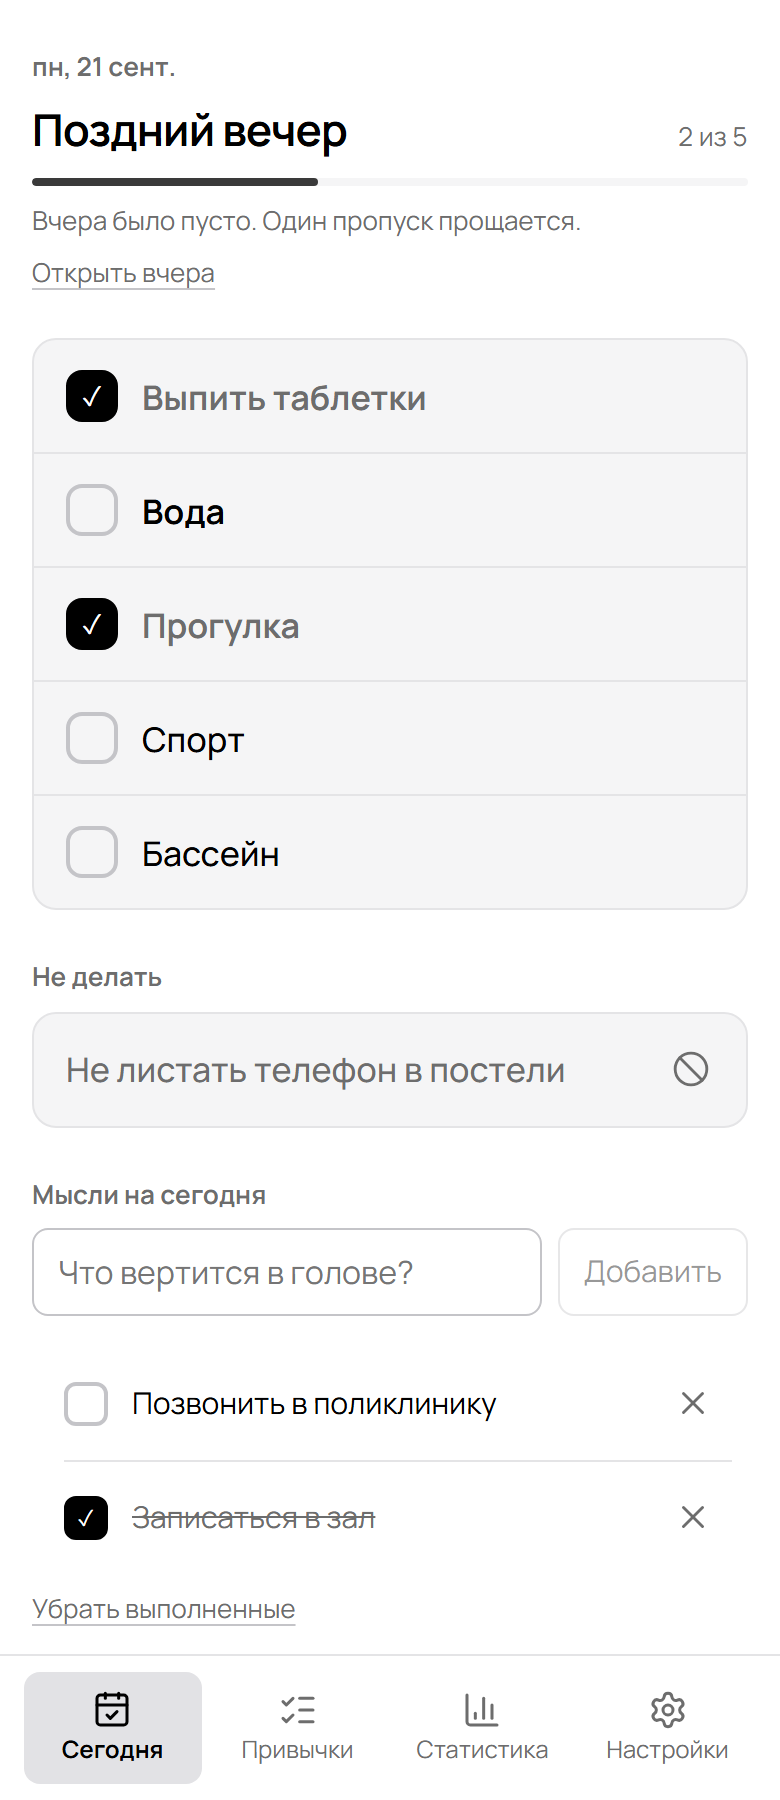
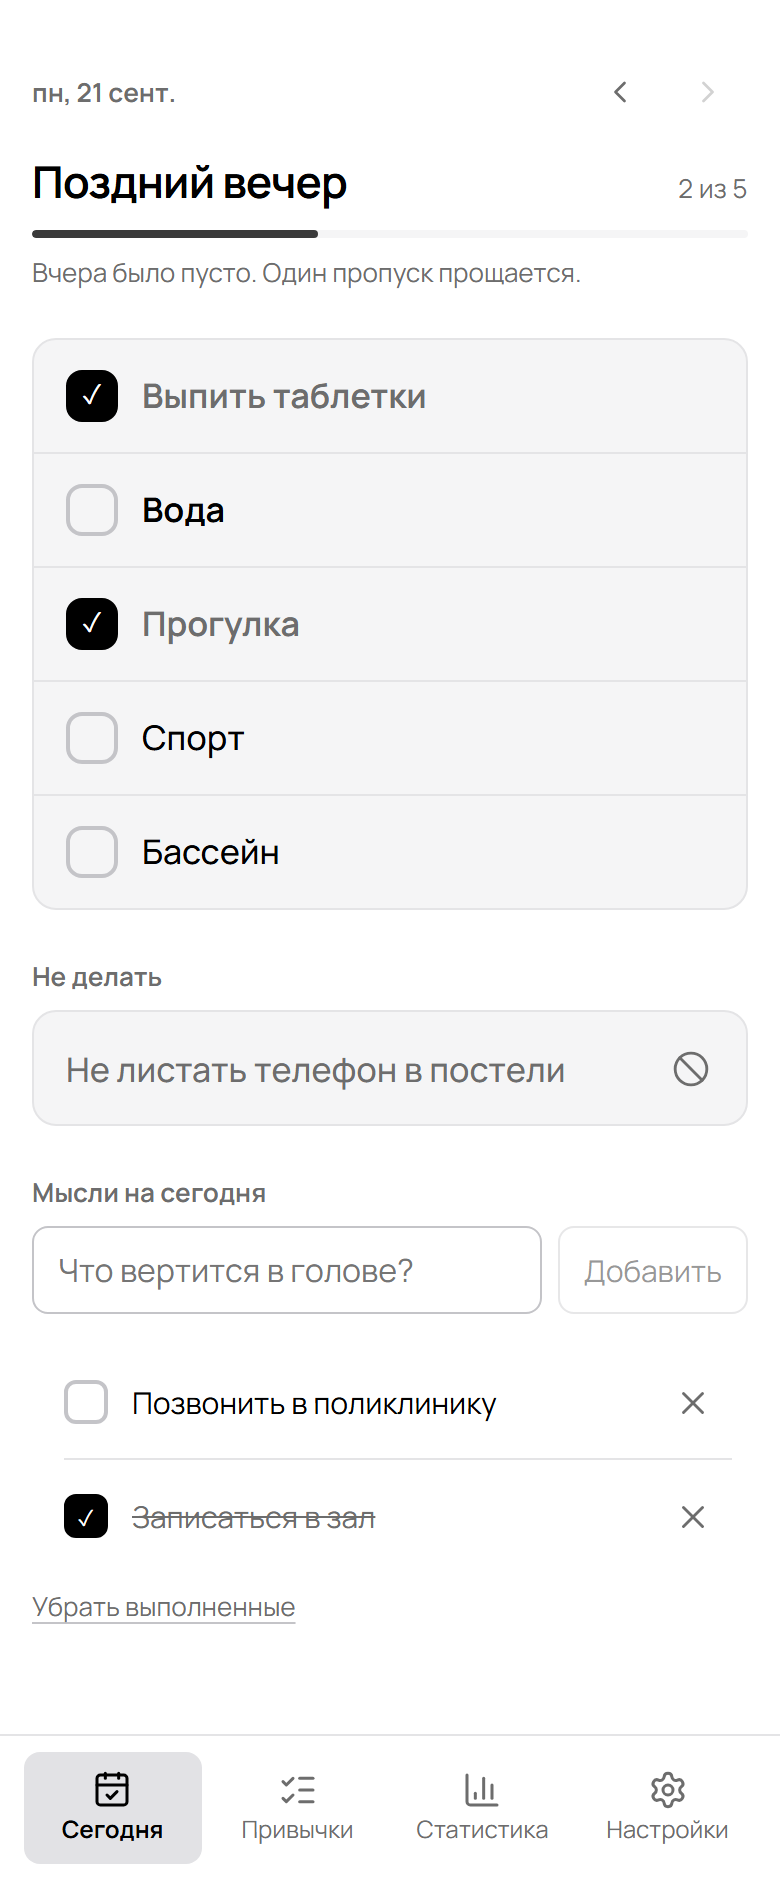
Вчера снова можно открыть: шаг по дням стрелками
Регресс из прошлой правки: я убрал полосу дней, а вместе с ней и
единственный путь ко вчерашнему дню. Ссылка «Открыть вчера» появлялась
только если вчера было ПОЛНОСТЬЮ пусто — если вчера что-то делал, но
забыл отметить, попасть туда было нельзя вообще.

Теперь в шапке слева дата словами, справа две стрелки: день назад и
день вперёд (вперёд выключена на сегодня). Из прошлого — ссылка
«Сегодня» одним тапом. Дата всегда написана, поэтому «какой это день»
не загадка, и вчера доступно в любом случае, а не только при пропуске.

e2e: открыть вчера стрелкой, отметить привычку — запись ушла в
days['2026-09-20'], сегодняшний день остался нетронутым.

CACHE_VERSION не менялся в этом коммите (версия 0.5.0), тестов 50

diff --git a/src/components/TodayView.tsx b/src/components/TodayView.tsx
@@ -1,5 +1,5 @@
 import { useState, type ReactNode } from 'react';
-import { Ban, Undo2, X } from 'lucide-react';
+import { Ban, ChevronLeft, ChevronRight, Undo2, X } from 'lucide-react';
 import type { AppData, Habit } from '../types';
 import { useStore } from '../store';
 import { fill, t } from '../lib/i18n';
@@ -46,7 +46,6 @@ export default function TodayView({ onGoToHabits, initialDay }: TodayViewProps) 
   const [dumpText, setDumpText] = useState('');
 
   const isToday = open === today;
-  const yesterday = addDays(today, -1);
 
   const active = activeHabits(data);
   // A habit is not asked for a day before it existed, nor on a day off its schedule.
@@ -148,7 +147,38 @@ export default function TodayView({ onGoToHabits, initialDay }: TodayViewProps) 
   return (
     <div className="stack">
       <header className="day-head">
-        <p className="label">{formatDay(open, lang)}</p>
+        {/* Один день назад — один тап. Стрелки, а не полоса недели: дата всегда
+            написана слева, поэтому «какой это день» не загадка, а вчера открывается
+            даже тогда, когда вчера не было пусто (полоса дней за это и поплатилась). */}
+        <div className="day-nav">
+          <p className="label">{formatDay(open, lang)}</p>
+          <div className="day-nav-acts">
+            {!isToday ? (
+              <button type="button" className="link" onClick={() => setOpen(today)}>
+                {dict['today.today']}
+              </button>
+            ) : null}
+            <button
+              type="button"
+              className="icon-btn"
+              aria-label={dict['today.prevDay']}
+              title={dict['today.prevDay']}
+              onClick={() => setOpen(addDays(open, -1))}
+            >
+              <ChevronLeft size={18} strokeWidth={1.8} aria-hidden="true" />
+            </button>
+            <button
+              type="button"
+              className="icon-btn"
+              aria-label={dict['today.nextDay']}
+              title={dict['today.nextDay']}
+              disabled={isToday}
+              onClick={() => setOpen(addDays(open, 1))}
+            >
+              <ChevronRight size={18} strokeWidth={1.8} aria-hidden="true" />
+            </button>
+          </div>
+        </div>
         <div className="day-line">
           <h1>{isToday ? greeting : dict['today.pastTitle']}</h1>
           {total > 0 ? (
@@ -169,16 +199,6 @@ export default function TodayView({ onGoToHabits, initialDay }: TodayViewProps) 
           </div>
         ) : null}
         {notice ? <p className="muted small">{notice}</p> : null}
-        {!isToday ? (
-          <button type="button" className="link" onClick={() => setOpen(today)}>
-            {dict['today.backToToday']}
-          </button>
-        ) : atRisk > 0 ? (
-          // Прошлое появляется только тогда, когда оно правда важно: вчерашний пропуск.
-          <button type="button" className="link" onClick={() => setOpen(yesterday)}>
-            {dict['today.openYesterday']}
-          </button>
-        ) : null}
       </header>
 
       {active.length === 0 ? (

diff --git a/src/lib/i18n.ts b/src/lib/i18n.ts
@@ -20,11 +20,12 @@ const ru = {
   'today.progress': '{done} из {total}',
   'today.allDone': 'На сегодня всё.',
   'today.atRisk': 'Вчера было пусто. Один пропуск прощается.',
-  'today.openYesterday': 'Открыть вчера',
   'today.pastTitle': 'Прошлый день',
   'today.pastEmpty': 'В этот день привычек ещё не было.',
   'today.offSchedule': 'По расписанию на сегодня ничего.',
-  'today.backToToday': 'Вернуться к сегодня',
+  'today.today': 'Сегодня',
+  'today.prevDay': 'Предыдущий день',
+  'today.nextDay': 'Следующий день',
   'today.showOffSchedule': 'Показать не по расписанию ({n})',
   'today.hideOffSchedule': 'Скрыть не по расписанию',
   'today.negatives': 'Не делать',
@@ -129,11 +130,12 @@ const en: Dict = {
   'today.progress': '{done} of {total}',
   'today.allDone': 'Done for today.',
   'today.atRisk': 'Yesterday was empty. One miss is forgiven.',
-  'today.openYesterday': 'Open yesterday',
+  'today.today': 'Today',
+  'today.prevDay': 'Previous day',
+  'today.nextDay': 'Next day',
   'today.pastTitle': 'A past day',
   'today.pastEmpty': 'No habits existed on that day yet.',
   'today.offSchedule': 'Nothing scheduled for today.',
-  'today.backToToday': 'Back to today',
   'today.showOffSchedule': 'Show off-schedule habits ({n})',
   'today.hideOffSchedule': 'Hide off-schedule habits',
   'today.negatives': "Don't do",

diff --git a/src/app.test.tsx b/src/app.test.tsx
@@ -91,11 +91,13 @@ describe('views render', () => {
     expect(html).not.toContain('0/6');
   });
 
-  it('opens yesterday from the notice instead of a week strip', () => {
+  it('keeps yesterday one tap away, whatever yesterday looked like', () => {
     seedStorage(agedHistory());
     const html = render(<TodayView onGoToHabits={() => {}} />);
 
-    expect(html).toContain('Открыть вчера');
+    // дата написана, шаг по дням на виду: вчера открывается даже если вчера не было пусто
+    expect(html).toContain('aria-label="Предыдущий день"');
+    expect(html).toMatch(/aria-label="Следующий день"[^>]*disabled/);
     expect(html).not.toContain('day-chip');
   });
 
@@ -105,7 +107,8 @@ describe('views render', () => {
     const html = render(<TodayView onGoToHabits={() => {}} initialDay={past} />);
 
     expect(html).toContain('Прошлый день');
-    expect(html).toContain('Вернуться к сегодня');
+    // из прошлого есть один тап обратно в сегодня
+    expect(html).toContain('>Сегодня<');
     expect(html).not.toContain('day-chip');
   });
 

diff --git a/src/styles.css b/src/styles.css
@@ -439,6 +439,18 @@ p {
   background: var(--surface-3);
 }
 
+.icon-btn:disabled,
+.row-act:disabled {
+  opacity: 0.3;
+  cursor: default;
+}
+
+.icon-btn:disabled:hover,
+.row-act:disabled:hover {
+  color: var(--muted);
+  background: none;
+}
+
 /* a text button keeps a faint rule instead of a loud underline */
 .link {
   align-self: flex-start;
@@ -552,6 +564,21 @@ p {
   display: flex;
   flex-direction: column;
   gap: var(--s2);
+}
+
+/* Дата слева, шаг по дням справа: вчера — один тап, и он всегда на виду. */
+.day-nav {
+  display: flex;
+  align-items: center;
+  justify-content: space-between;
+  gap: var(--s3);
+  min-height: var(--control);
+}
+
+.day-nav-acts {
+  display: flex;
+  align-items: center;
+  gap: var(--s1);
 }
 
 .day-line {

diff --git a/README.md b/README.md
@@ -63,7 +63,8 @@ npm run preview  # http://127.0.0.1:4173
 ## ✨ Что внутри
 
 - ✅ **Привычка — это галочка.** Никаких «сколько стаканов» и «сколько минут»: приложение спрашивает только «сделал или нет», а ответ — один тап по строке. Выбор количества был трением, из-за которого трекером не хочется пользоваться; если дело требует двадцати минут, это уже задача, а не привычка.
-- 🪶 **Мягкие серии** — «не пропускай дважды»: один пропущенный день не обнуляет прогресс, ломают только два подряд, а сегодняшний незакрытый день вообще не считается пропуском. Если вчера было пусто, приложение скажет об этом одной короткой фразой и предложит открыть вчера — прошлое появляется только тогда, когда оно правда важно.
+- 🪶 **Мягкие серии** — «не пропускай дважды»: один пропущенный день не обнуляет прогресс, ломают только два подряд, а сегодняшний незакрытый день вообще не считается пропуском. Если вчера было пусто, приложение скажет об этом одной короткой фразой.
+- 🗓 **Вчера — один тап** — слева дата словами, справа две стрелки: день назад и день вперёд. Любой прошлый день открывается и правится, из прошлого есть ссылка обратно в сегодня. Никакого листания недель и вопроса «а сейчас какая неделя?».
 - 📆 **Расписание по дням** — «по будням», «пн, ср, пт»: день вне расписания не считается пропуском и не рвёт серию. На экране «Сегодня» такая привычка не мешает, но одной ссылкой её можно показать и отметить.
 - 🎯 **«Главное сегодня»** — максимум три привычки наверху, остальные ниже: меньше паралича выбора.
 - ↩ **Отмена там, где легко промахнуться** — срыв у «не делать», удалённая мысль, привычка со старой целью: приложение сразу предлагает «Отменить», и данные возвращаются целиком.

diff --git a/docs/technical.md b/docs/technical.md
@@ -93,11 +93,12 @@ scripts/
   старые типы остались (`counter`, `duration`, `flex`), чтобы не потерять историю и бэкапы, но
   интерфейс их не создаёт: новая привычка — всегда галочка. Один тап закрывает и старую привычку
   с целью: `tapHabit` пишет сразу всю цель, поэтому «6 стаканов» отмечаются так же, как «выпить таблетки».
-- Прошлое появляется **только когда оно важно**: если вчера было пусто, под заголовком появляется
-  короткая фраза и ссылка «Открыть вчера» (`missedYesterday`). Полосы дней и листания недель больше
-  нет — смотреть назад имеет смысл ровно затем, чтобы дозаполнить пропуск, а не гулять по пустой
-  истории. Открытый прошлый день честно называется «Прошлый день», рядом есть «Вернуться к сегодня»,
-  а привычки, которых в тот день ещё не было, не показываются (`habitsUpTo`).
+- Прошлое — **всегда в одном тапе**: слева дата словами, справа две стрелки «день назад /
+  день вперёд» (`›` выключена на сегодня). Раньше здесь была полоса недели, потом её сменила ссылка
+  «Открыть вчера», которая появлялась только если вчера было *полностью* пусто — и правка вчера
+  стала невозможной. Стрелки исправляют именно это: дата всегда написана, поэтому «какой это день»
+  не загадка, а вчера доступно в любом случае. Из прошлого один тап назад в сегодня — ссылка
+  «Сегодня». Привычки, которых в тот день ещё не было, не показываются (`habitsUpTo`).
 - **Одна короткая фраза о дне** вместо уведомлений: «На сегодня всё.» когда день закрыт и
   «Вчера было пусто. Один пропуск прощается.» когда есть риск.
 - **Действия, которые легко задеть случайно, оставляют путь назад**: срыв, удалённая мысль, привычка
